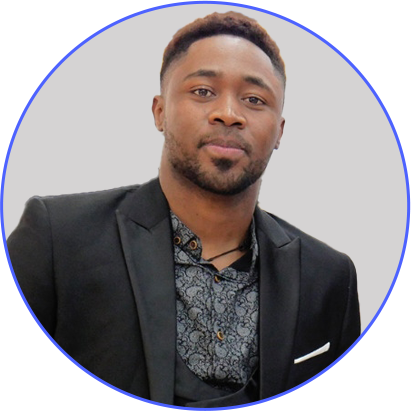
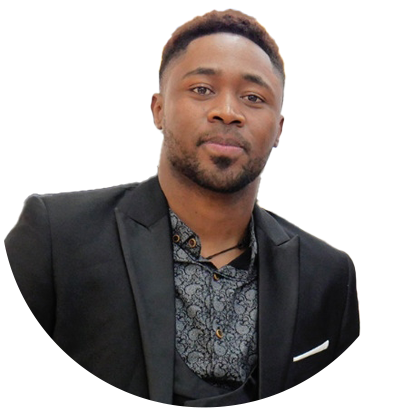
v2

diff --git a/src/app/views/about-us/about-us.component.ts b/src/app/views/about-us/about-us.component.ts
@@ -24,7 +24,7 @@ export class AboutUsComponent implements OnInit {
           researching on Climate Change and WASH within rural communities. She obtained a BSc in Geography 
           from the University of Buea, Buea-Cameroon.  She is a robust and dynamic young fellow of Geography 
           and Policy Issues interested in social and environmental problems such as plastic wastes solutions.`,
-          img:'assets/img/team/Ewube.png'
+          img:'assets/img/team/ewube.png'
         },
         {
           title:'Christian',
@@ -33,7 +33,7 @@ export class AboutUsComponent implements OnInit {
           Algeria. Christian studied Process Engineering during his undergraduate at Djilali Liabes University,
            Algeria.  Interested in entrepreneurship, Christian was the third winner of the HultPrize. 
            competition at his university in 2019.`,
-           img:'assets/img/team/Christian.png'
+           img:'assets/img/team/christian.png'
         },
         {
           title:'Brendaline',
@@ -43,7 +43,7 @@ export class AboutUsComponent implements OnInit {
           she was a member of the Next Water Generation Action. She is currently researching on the risks 
           and opportunities in rice production in Cameroon through a water productivity. approach using 
           remote sensing data.`,
-          img:'assets/img/team/Brenda.png'
+          img:'assets/img/team/brenda.png'
         },
         {
           title:'Cresus',
@@ -52,7 +52,7 @@ export class AboutUsComponent implements OnInit {
           Algeria Pauwes where he does water engineering. Always in search of knowledge, he has proven himself 
           in the field of rural hydraulics, before working as a Wash Facilitator and as Responsible of 
           the sustainable project at the National Agency of Water and Sanitation in Central Africa.`,
-          img:'assets/img/team/Cresus.png'
+          img:'assets/img/team/cresus.png'
         },
         {
           title:'Benjamin',
@@ -60,7 +60,7 @@ export class AboutUsComponent implements OnInit {
           Pan African University Institute of Water and Energy Sciences including Climate Change (PAUWES), 
           Algeria. Prior to joining PAUWES, he majored in Environmental Engineering from Erciyes University, 
           Turkey; and has worked on a couple of development projects. Benjamin is from Burkina Faso..`,
-          img:'assets/img/team/Benjo.png'
+          img:'assets/img/team/benjo.png'
         },
       ]
     }

diff --git a/src/app/views/dashboard/dashboard.component.ts b/src/app/views/dashboard/dashboard.component.ts
@@ -117,12 +117,7 @@ export class DashboardComponent implements OnInit {
       display: false
     }
   };
-  public lineChart2Colours: Array<any> = [
-    { // grey
-      backgroundColor: getStyle('--info'),
-      borderColor: 'rgba(255,255,255,.55)'
-    }
-  ];
+  
   public lineChart2Legend = false;
   public lineChart2Type = 'line';
 
@@ -211,7 +206,7 @@ export class DashboardComponent implements OnInit {
 
   // mainChart
 
-  public mainChartElements = 27;
+  public mainChartElements = 12;
   public mainChartData1: Array<number> = [];
   public mainChartData2: Array<number> = [];
   public mainChartData3: Array<number> = [];
@@ -219,7 +214,7 @@ export class DashboardComponent implements OnInit {
   public mainChartData: Array<any> = [
     {
       data: this.mainChartData1,
-      label: 'Current'
+      label: 'Copper'
     },
     {
       data: this.mainChartData2,
@@ -231,7 +226,9 @@ export class DashboardComponent implements OnInit {
     }
   ];
   /* tslint:disable:max-line-length */
-  public mainChartLabels: Array<any> = ['Monday', 'Tuesday', 'Wednesday', 'Thursday', 'Friday', 'Saturday', 'Sunday', 'Monday', 'Tuesday', 'Wednesday', 'Thursday', 'Friday', 'Saturday', 'Sunday', 'Monday', 'Tuesday', 'Wednesday', 'Thursday', 'Friday', 'Saturday', 'Sunday', 'Monday', 'Thursday', 'Wednesday', 'Thursday', 'Friday', 'Saturday', 'Sunday'];
+  public mainChartLabels: Array<any> = [
+    'January', 'February', 'March', 'April', 'May', 'June', 'July', 'August', 'September', 'October', 'November', 'December'
+  ];
   /* tslint:enable:max-line-length */
   public mainChartOptions: any = {
     tooltips: {
@@ -380,9 +377,9 @@ export class DashboardComponent implements OnInit {
   ngOnInit(): void {
     // generate random values for mainChart
     for (let i = 0; i <= this.mainChartElements; i++) {
-      this.mainChartData1.push(this.random(50, 200));
-      this.mainChartData2.push(this.random(80, 100));
-      this.mainChartData3.push(65);
+      this.mainChartData1.push(this.random(10, 200));
+      // this.mainChartData2.push(this.random(80, 100));
+      // this.mainChartData3.push(65);
     }
   }
 }

diff --git a/src/app/views/about-us/about-us.component.html b/src/app/views/about-us/about-us.component.html
@@ -1,3 +1,9 @@
+<style>
+     .team .member .member-img:after {
+         
+    background: url(assets/img/team-shape.svg) no-repeat center bottom;
+  }
+</style>
 <section id="" class="team" style="margin-bottom: 15px;">
 
     <div class="container" data-aos="fade-up">
@@ -26,16 +32,16 @@
                     <div class="member-img">
                         <img src="{{team.img}}" class="img-fluid" alt="">
                         <div class="social">
-                            <a href=""><i class="bi bi-twitter"></i></a>
-                            <a href=""><i class="bi bi-facebook"></i></a>
-                            <a href=""><i class="bi bi-instagram"></i></a>
-                            <a href=""><i class="bi bi-linkedin"></i></a>
+                            <a href=""><i class="fa fa-twitter"></i></a>
+                            <a href=""><i class="fa fa-facebook"></i></a>
+                            <a href=""><i class="fa fa-instagram"></i></a>
+                            <a href=""><i class="fa fa-linkedin"></i></a>
                         </div>
                     </div>
                     <div class="member-info">
                         <h4>{{team.title}}</h4>
                         <!-- <span>Chief Executive Officer</span> -->
-                        <p>{{team.description}}</p>
+                        <p (click)="team.show = !team.show" class="text-show" [ngClass]="{'show': team.show,'no-show': !team.show}">{{team.description}}</p>
                     </div>
                 </div>
             </div>

diff --git a/scss/navs/_sidebar.scss b/scss/navs/_sidebar.scss
@@ -1,8 +1,9 @@
 // Sidebar
+
 .sidebar {
     width: $sidebar-collapsed-width;
     min-height: 100vh;
-
+    background: blue!important;
     .nav-item {
         position: relative;
 
@@ -395,15 +396,15 @@
 
     // Color the sidebar toggler
     #sidebarToggle {
-        background-color: $gray-200;
+        // background-color: $gray-200;
 
-        &::after {
-            color: $gray-500;
-        }
+        // &::after {
+        //     color: $gray-500;
+        // }
 
-        &:hover {
-            background-color: $gray-300;
-        }
+        // &:hover {
+        //     background-color: $gray-300;
+        // }
     }
 }
 

diff --git a/src/scss/_custom.scss b/src/scss/_custom.scss
@@ -1,1 +1,18 @@
 // Here you can add other styles
+$sidebar-color:rgb(72, 72, 170);
+$black:     rgb(12, 102, 144);
+.sidebar {
+    display: flex;
+    flex-direction: column;
+    padding: $sidebar-padding;
+    color: $sidebar-color;
+    background: $black;
+    .nav-icon {
+        display: inline-block;
+        width: ($font-size-base * 1.25);
+        margin: 0 ($sidebar-nav-link-padding-x / 2) 0 0;
+        font-size: $font-size-base;
+        color: rgb(82, 184, 74)!important;
+        text-align: center;
+      }
+}

diff --git a/src/app/views/about-us/about-us.component.scss b/src/app/views/about-us/about-us.component.scss
@@ -8,6 +8,23 @@
 /*--------------------------------------------------------------
 # General
 --------------------------------------------------------------*/
+
+    .text-show {
+         font-size: 16px;
+         line-height: 16px;
+         height: 32px;
+         overflow: hidden;
+    }
+    .show {
+         overflow: visible;
+         height: auto;
+    }
+    .no-show{
+      overflow: hidden;
+      height: 32px;
+    }
+
+
 :root {
     scroll-behavior: smooth;
   }

diff --git a/src/app/views/dashboard/dashboard.component.html b/src/app/views/dashboard/dashboard.component.html
@@ -5,7 +5,7 @@
       <div class="row">
         <div class="col-sm-5">
           <h4 class="card-title mb-0">Copper</h4>
-          <div class="small text-muted">March 2022</div>
+          <div class="small text-muted">2022</div>
         </div><!--/.col-->
         <div class="col-sm-7 d-none d-md-block">
           <button type="button" class="btn btn-primary float-right"><i class="icon-cloud-download"></i></button>

diff --git a/src/scss/style.scss b/src/scss/style.scss
@@ -6,3 +6,4 @@
 
 // If you want to add something do it here
 @import "custom";
+// stylelint-disable selector-max-class, declaration-no-important, selector-max-compound-selectors, function-url-quotes, selector-max-combinators
